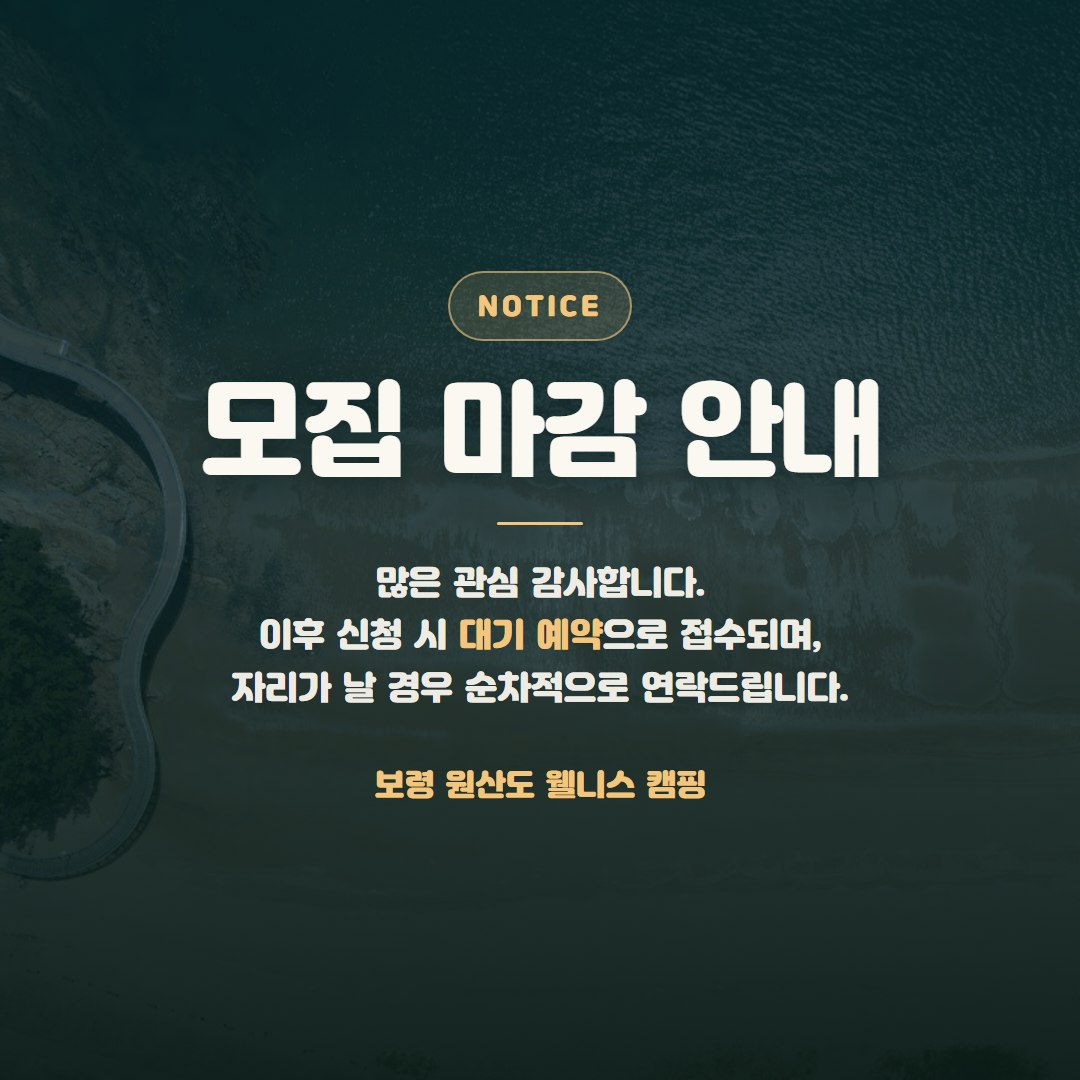
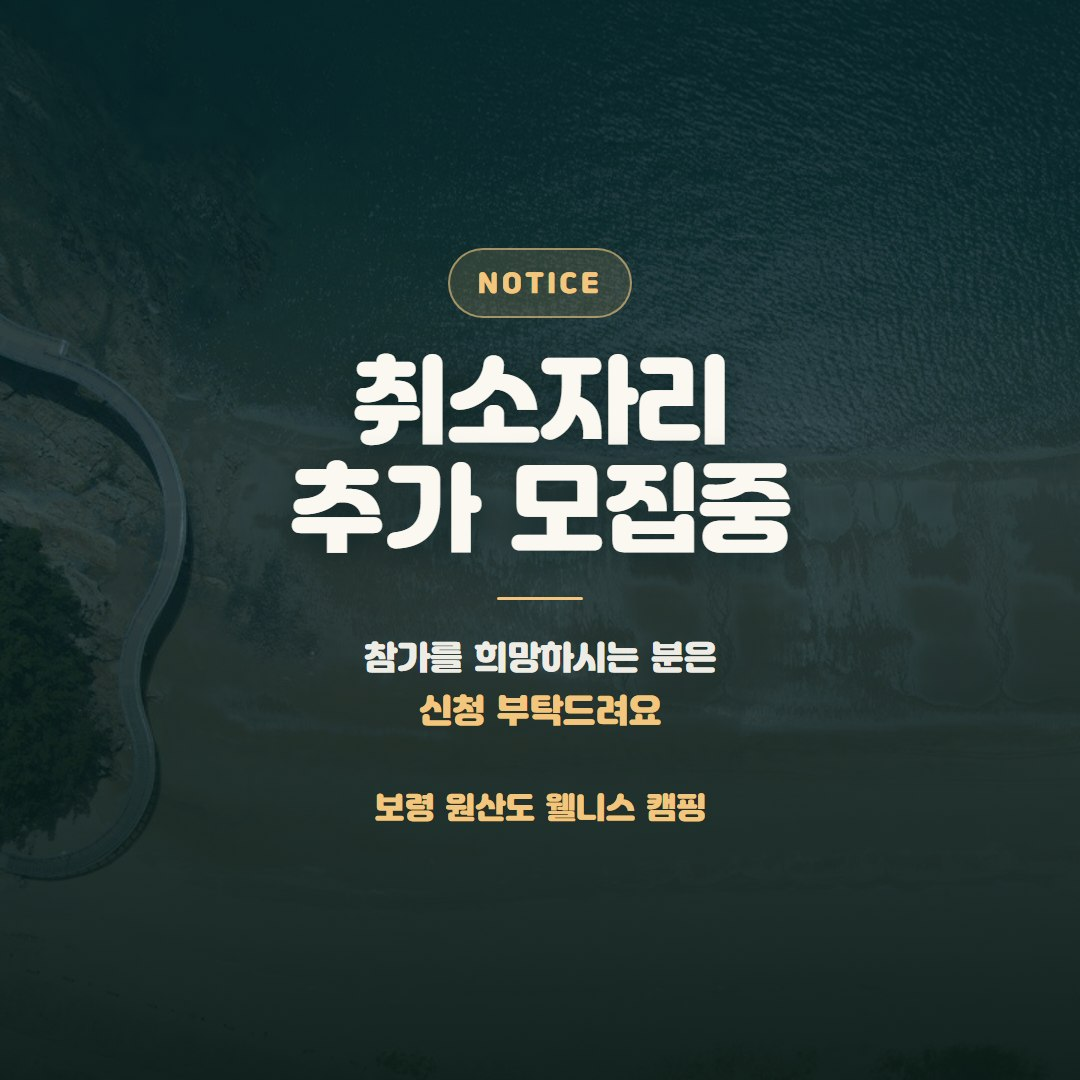
팝업 내용 변경: 취소자리 추가 모집중 + 참가 신청 버튼

Changed region(s): [[0.1833, 0.2139, 0.825, 0.6722], [0.3361, 0.7028, 0.6722, 0.7639]]

diff --git a/index.html b/index.html
@@ -886,8 +886,11 @@
     <div class="relative w-full max-w-md">
       <img src="photos/web/notice-closed.jpg" alt="모집 마감 안내 — 이후 신청 시 대기 예약으로 접수되며, 자리가 날 경우 순차적으로 연락드립니다." width="1080" height="1080" class="w-full rounded-[2rem] shadow-softlg" />
       <div class="mt-3 flex items-center justify-between gap-3">
-        <button type="button" id="noticeToday" class="rounded-full bg-white/15 px-5 py-3 text-[14px] font-semibold text-white backdrop-blur u-ease hover:bg-white/25">오늘 하루 보지 않기</button>
-        <button type="button" id="noticeClose" class="rounded-full bg-sun-400 px-7 py-3 text-[14.5px] font-bold text-ocean-900 u-ease hover:bg-sun-300 active:scale-[0.98]">닫기</button>
+        <button type="button" id="noticeToday" class="rounded-full bg-white/15 px-4 py-3 text-[13.5px] font-semibold text-white backdrop-blur u-ease hover:bg-white/25">오늘 하루 보지 않기</button>
+        <div class="flex items-center gap-2">
+          <button type="button" id="noticeClose" class="rounded-full bg-white/15 px-5 py-3 text-[14px] font-semibold text-white backdrop-blur u-ease hover:bg-white/25">닫기</button>
+          <a href="#apply" id="noticeApply" class="inline-flex items-center gap-2 rounded-full bg-sun-400 px-6 py-3 text-[14.5px] font-bold text-ocean-900 u-ease hover:bg-sun-300 active:scale-[0.98]">참가 신청 <iconify-icon icon="solar:arrow-right-linear"></iconify-icon></a>
+        </div>
       </div>
     </div>
   </div>
@@ -1079,6 +1082,7 @@
       document.body.style.overflow = 'hidden';
 
       document.getElementById('noticeClose').addEventListener('click', close);
+      document.getElementById('noticeApply').addEventListener('click', close);
       modal.querySelectorAll('[data-close-notice]').forEach(el => el.addEventListener('click', close));
       document.getElementById('noticeToday').addEventListener('click', () => {
         try { localStorage.setItem('noticeHideUntil', Date.now() + 864e5); } catch (e) {}
